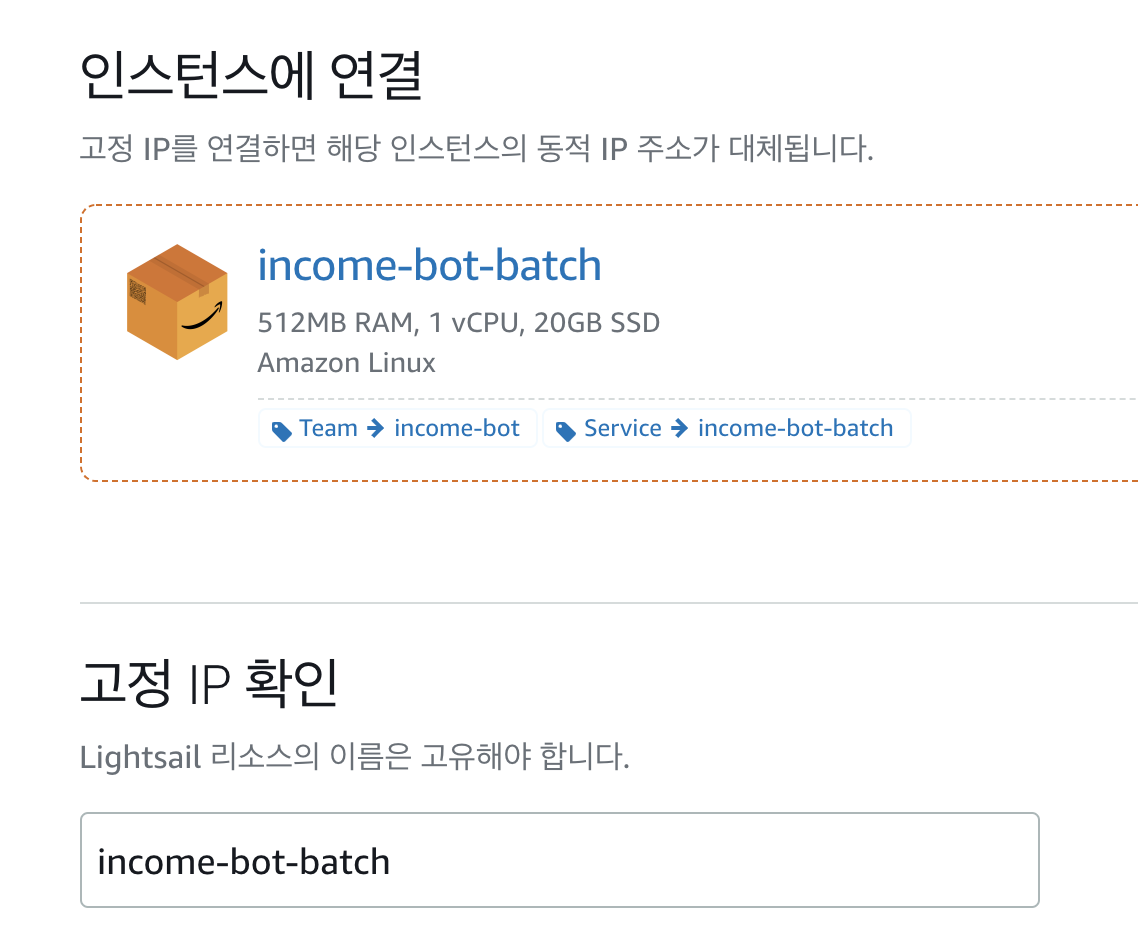
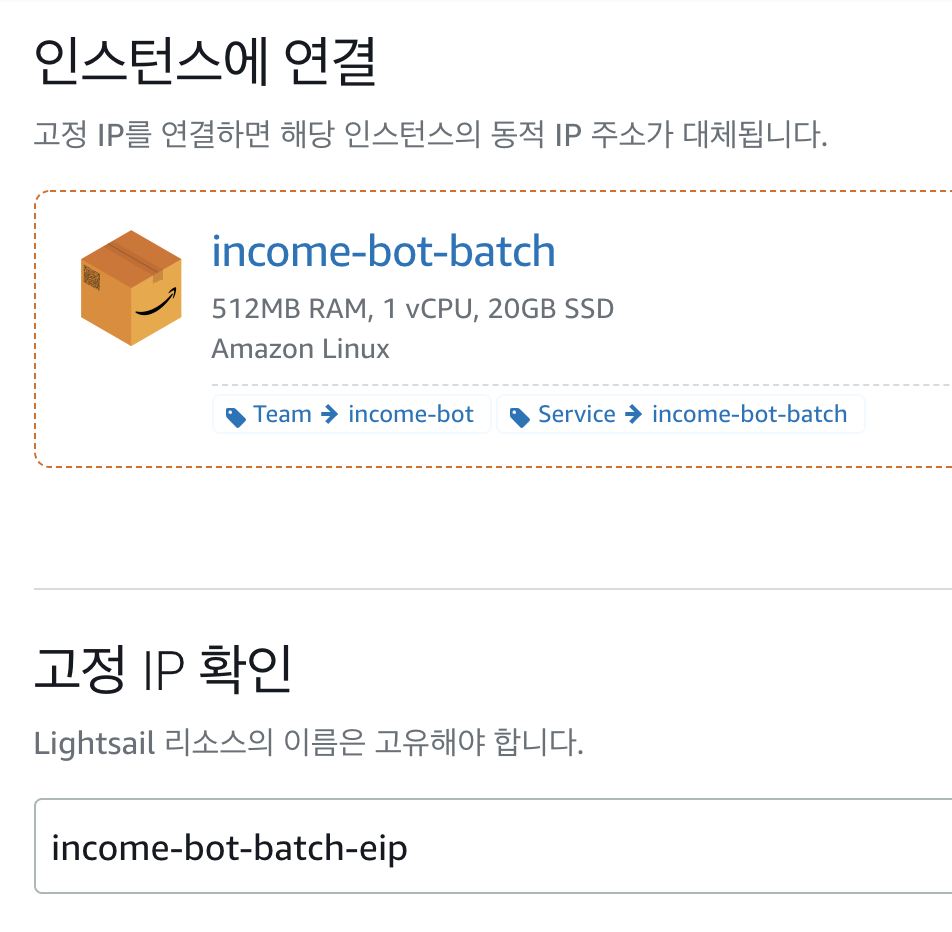
라이트세일 완성

diff --git a/aws/lightsail_jenkins/README.md b/aws/lightsail_jenkins/README.md
@@ -8,7 +8,7 @@
 
 이럴 경우 고사양의 EC2가 필요로 하지 않으며, 전문가 수준의 AWS 사용 방법도 필요로 하진 않습니다.  
   
-Lightsail은 이렇게 작은 비용으로 시작할 수 있는 가상서버(VPS) 서비스인데요.  
+Lightsail은 이렇게 작은 비용으로 시작할 수 있는 가상서버(VPS) 서비스입니다.  
 
 > VPS란?  
 > 하나의 물리 서버를 **여러 개의 가상 서버로 쪼개어 사용**하는 것을 의미합니다.  
@@ -95,40 +95,95 @@ AWS 의 서비스 검색에서 Lightsail을 검색합니다.
 일단은 테스트 용도로 첫 달 무료인 $3.5를 선택합니다.  
 다만, Spring Boot/Jenkins 등 자바 애플리케이션을 실행시키길 원하시는 분들은 **최소 메모리 1GB 이상**을 선택하셔야 합니다.  
 첫달 무료인 nano 는 메모리가 512MB인데, 실제 Linux 시스템에 필요한 메모리를 제외하면 200~300MB만 사용할 수 있어 Spring Boot를 실행시킬 수가 없습니다.  
+그러니 간단한 Node 혹은 Python 스크립트를 실행할 정도일때만 제일 작은 타입을 고르시는게 마음 편하실 것 같습니다.  
   
 다음은 인스턴스 이름을 등록합니다.  
+저는 배치 애플리케이션을 실행할거라 아래와 같은 이름을 지었습니다.
 
 ![aws8](./images/aws8.png)
 
-저는 검색을 좀 더 쉽게하기 위해 별도의 태그도 추가하였는데요.  
-꼭 해야할 작업은 아니니 필요없으신 분들은 태그는 넘어가셔도 됩니다.
+검색을 좀 더 쉽게하기 위해 별도의 태그도 추가하였는데요.  
+꼭 해야할 작업은 아니니 필요 없으신 분들은 태그는 넘어가셔도 됩니다.
 
 ![aws9](./images/aws9.png)
 
-
+태그까지 등록을 마치시면 아래와 같이 인스턴스 생성이 시작 됩니다.
 
 ![aws10](./images/aws10.png)
 
+### 1-1. 접근 IP 제한
+
+인스턴스가 생성이 시작되었다면 이제 네트워크를 수정해봅니다.  
+여기서는 고정 IP (ElasticIP) 와 방화벽을 수정할 예정입니다.  
+  
+인스턴스 화면에서 ```:``` 버튼을 클릭 하시면 아래와 같이 항목이 나오는데, 여기서 **관리** 버튼을 클릭합니다.  
+
 ![aws11](./images/aws11.png)
+
+가장 먼저 방화벽을 수정할 수 있는데,  
+저는 혼자만 사용할 서비스라 80,22 포트 모두 제 IP로만 등록하였습니다.  
+  
+만약 외부에서 언제든 접속할 서비스라면 
+
+* ```80``` 포트는 모든 IP주소로
+* ```22``` 포트는 나의 IP만 사용합니다.
+
+> ```22``` 포트는 **무조건 본인 IP로만** 등록하세요.
+
+현재 PC의 IP를 알고 싶으신 분들은 [ifconfig.co](https://ifconfig.co/)로 접속하시면 확인하실 수 있습니다.
+
+![ifconfig](./images/ifconfig.png)
+
+포트 범위 제한은 아래와 같이 수정할 수 있습니다.  
+수정 버튼을 클릭 하신뒤 
 
 ![aws12](./images/aws12.png)
 
+아래와 같이 **IP 주소로 제한**을 체크하시고, 소스 IP 주소 입력란에 본인 IP를 등록 하시면 됩니다.  
+
+> IP 주소로 제한을 체크하지 않으면 모든 범위의 IP가 접근 가능합니다.
+> 
 ![aws13](./images/aws13.png)
+
+22 포트의 경우 체크항목이 하나더 나오는데요.  
+웹 UI에서 터미널 접속을 하신다면 **Lightsail 브라우저 SSH 허용**도 같이 체크하시면 됩니다.
 
 ![aws14](./images/aws14.png)
 
+저장을 하시고 바로 아래로 내려가시면 고정 IP 항목이 나옵니다.  
+
+### 1-2. 고정 IP 등록
+
+Lightsail 의 인스턴스 역시 재부팅을 하게 되면 IP가 계속 변경이 되는데요.  
+이를 일관된 IP로 관리하기 위해 고정 IP를 생성하고 등록하겠습니다.  
+  
+아래와 같이 퍼블릭 IP 항목에서 **고정 IP 생성** 버튼을 클릭 합니다.
+
 ![aws15](./images/aws15.png)
+
+그럼 아래처럼 고정 IP 대상이 되는 인스턴스의 간략 소개와 이제 생성될 고정 IP의 이름을 등록할 수 있습니다.  
+저는 고정 IP의 이름을 ```인스턴스명-eip```로 지었습니다.  
 
 ![aws16](./images/aws16.png)
 
-![aws17](./images/aws17.png)
-
+여기까지 하셨다면 인스턴스 생성에 관한 모든 작업이 끝났습니다!  
+  
+자 이제 막 생성한 인스턴스로 터미널 접속을 해보겠습니다.
 
 ## 2. Lightsail 인스턴스 접속하기
 
+생성된 Lightsail에 접속하는 방법은 기존의 EC2와 동일합니다.  
+여기서는 웹 UI가 아닌, iTerm 과 같은 터미널 도구를 통해서 진행해보겠습니다.
+
+> 윈도우 사용자 분들은 웹 터미널을 사용하시거나 [이전에 작성한 글](https://jojoldu.tistory.com/427)을 참고하시는것도 좋습니다.
+
+터미널을 여시고 아래와 같이 ```ssh``` 커맨드를 입력하시면 접속할 수 있습니다.
+
 ```bash
-ssh ec2-user@퍼블릭IP -i /Users/idong-uk/.ssh/jojoldu-lightsail.pem -o StrictHostKeyChecking=no
+ssh ec2-user@퍼블릭IP -i pem키위치 -o StrictHostKeyChecking=no
 ```
+
+그럼 아래와 같이 pem키에 대한 권한이 없음 메세지가 발생하는데요.
 
 ```bash
 Warning: Permanently added 'XXX.XXX.XXX.XXX' (ECDSA) to the list of known hosts.
@@ -142,23 +197,29 @@ Load key "/Users/idong-uk/.ssh/jojoldu-lightsail.pem": bad permissions
 ec2-user@XXX.XXX.XXX.XXX: Permission denied (publickey).
 ```
 
-```bash
-chmod 600 라이트세일pem키
-```
-
+해당 pem키에 600 권한을 주고 다시 ```ssh``` 접속을 해보시면 정상적으로 접속이 됩니다.
 
 ```bash
-sudo yum update -y
+chmod 600 pem키위치
 ```
 
-
-
-
- 
 ## 3. 더이상 사용하지 않을 시 삭제
 
-![aws-delete](./images/aws-delete-eip1.png)
+한달이 지나 무료 기간이 끝나서 삭제하고 싶으실때는 아래의 과정을 진행하시면 됩니다.  
+  
+먼저 인스턴스에 연결된 고정 IP를 삭제합니다.
 
-![aws-delete](./images/aws-delete-eip2.png)
+> 고정 IP는 인스턴스에 연결되어있을때는 무료지만, **연결된 인스턴스가 없을 경우 비용이 부과**됩니다.
+
+인스턴스의 네트워킹 탭으로 들어가셔서 고정 IP 를 클릭합니다.
+
+![aws-delete-eip1](./images/aws-delete-eip1.png)
+
+삭제 항목으로 이동하여 고정 IP삭제를 클릭하면 삭제가 됩니다.
+
+![aws-delete-eip2](./images/aws-delete-eip2.png)
+
+고정 IP가 삭제가 되면 이후에 인스턴스 항목으로 돌아가 **삭제** 버튼을 클릭하시면 인스턴스까지 삭제가 완료 됩니다.
 
 ![aws-delete](./images/aws-delete.png)
+
